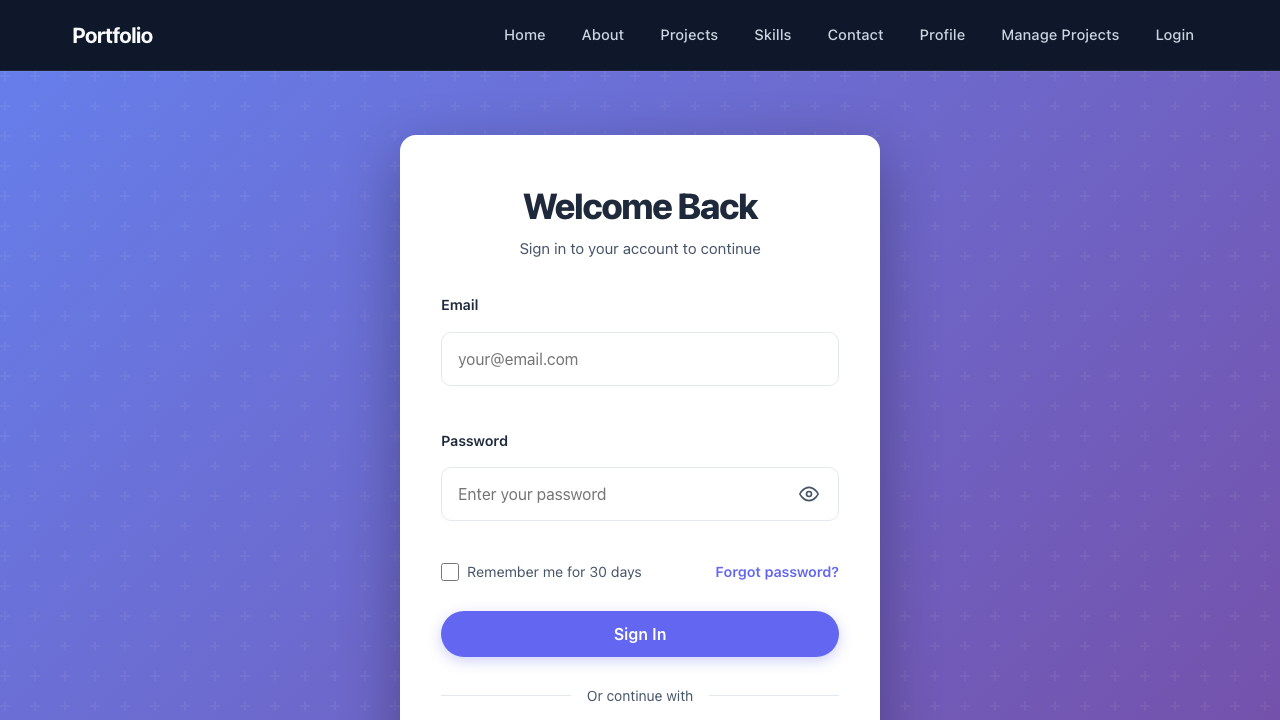
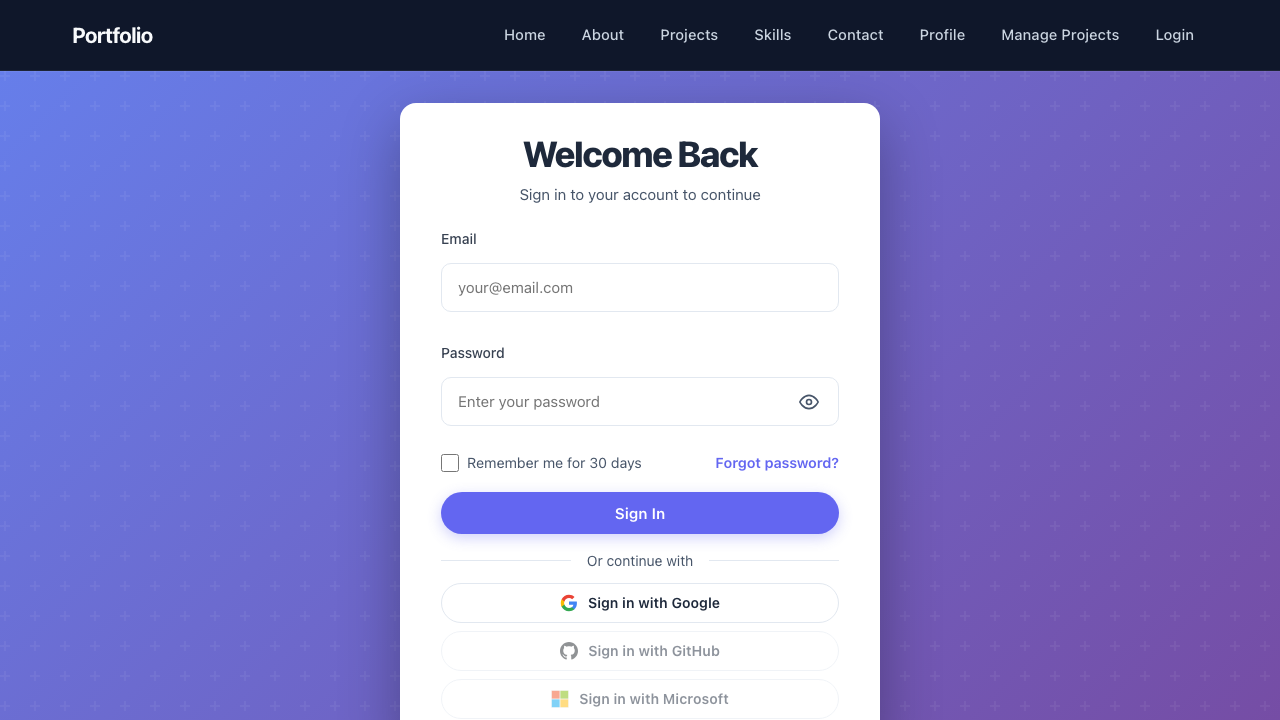
fix: visual QA review — all issues resolved

diff --git a/src/pages/Login.css b/src/pages/Login.css
@@ -1,9 +1,9 @@
 .login {
   min-height: calc(100vh - 80px);
   display: flex;
-  align-items: flex-start;
+  align-items: center;
   justify-content: center;
-  padding: 2rem;
+  padding: 2rem 2rem 3rem 2rem;
   background: linear-gradient(135deg, #667eea 0%, #764ba2 100%);
   position: relative;
   overflow-y: auto;
@@ -22,13 +22,12 @@
   max-width: 480px;
   position: relative;
   z-index: 1;
-  margin-top: 2rem;
-  margin-bottom: 2rem;
+  margin: auto;
 }
 
 .login-card {
   background-color: #ffffff;
-  padding: 3rem 2.5rem;
+  padding: 1.75rem 2.5rem;
   border-radius: var(--radius-lg);
   box-shadow: 0 20px 60px rgba(0, 0, 0, 0.3);
   border: 1px solid rgba(255, 255, 255, 0.2);
@@ -36,7 +35,7 @@
 
 .login-title {
   font-size: clamp(1.75rem, 3vw, 2.25rem);
-  margin-bottom: 0.5rem;
+  margin-bottom: 0.35rem;
   text-align: center;
   color: var(--color-text-primary);
   font-weight: 800;
@@ -46,15 +45,15 @@
 .login-subtitle {
   text-align: center;
   color: var(--color-text-secondary);
-  margin-bottom: 2rem;
+  margin-bottom: 1.25rem;
   font-size: 0.95rem;
 }
 
 .alert {
-  padding: 0.875rem 1.125rem;
+  padding: 0.75rem 1rem;
   border-radius: var(--radius-md);
-  margin-bottom: 1.5rem;
-  font-size: 0.9rem;
+  margin-bottom: 1.25rem;
+  font-size: 0.875rem;
   line-height: 1.5;
   display: flex;
   align-items: flex-start;
@@ -76,13 +75,13 @@
 .login-form {
   display: flex;
   flex-direction: column;
-  gap: 1.25rem;
+  gap: 0.875rem;
 }
 
 .form-group {
   display: flex;
   flex-direction: column;
-  gap: 0.5rem;
+  gap: 0.4rem;
 }
 
 .form-group label {
@@ -92,10 +91,10 @@
 }
 
 .form-group input {
-  padding: 0.875rem 1rem;
+  padding: 0.75rem 1rem;
   border: 1.5px solid var(--color-border);
   border-radius: var(--radius-md);
-  font-size: 1rem;
+  font-size: 0.95rem;
   color: var(--color-text-primary);
   background-color: #fff;
   transition: all var(--transition-base);
@@ -217,15 +216,15 @@
   background: var(--color-primary);
   color: #fff;
   border: none;
-  padding: 0.875rem 2rem;
-  font-size: 1rem;
+  padding: 0.75rem 2rem;
+  font-size: 0.95rem;
   font-weight: 600;
   border-radius: var(--radius-full);
   cursor: pointer;
   transition: all var(--transition-base);
   box-shadow: 0 4px 14px rgba(99, 102, 241, 0.3);
   letter-spacing: 0.01em;
-  margin-top: 0.5rem;
+  margin-top: 0.25rem;
   width: 100%;
 }
 
@@ -250,7 +249,7 @@
   display: flex;
   align-items: center;
   text-align: center;
-  margin: 1.75rem 0;
+  margin: 1rem 0 0.75rem 0;
   color: var(--color-text-secondary);
   font-size: 0.875rem;
 }
@@ -269,20 +268,20 @@
 .social-auth {
   display: flex;
   flex-direction: column;
-  gap: 0.75rem;
+  gap: 0.5rem;
 }
 
 .btn-social {
   display: flex;
   align-items: center;
   justify-content: center;
-  gap: 0.75rem;
-  padding: 0.875rem 1.5rem;
+  gap: 0.625rem;
+  padding: 0.625rem 1.25rem;
   border: 1.5px solid var(--color-border);
   border-radius: var(--radius-full);
   background-color: #fff;
   color: var(--color-text-primary);
-  font-size: 0.95rem;
+  font-size: 0.875rem;
   font-weight: 600;
   cursor: pointer;
   transition: all var(--transition-base);

diff --git a/src/sections/Contact.css b/src/sections/Contact.css
@@ -1,8 +1,8 @@
 .contact-section {
   width: 100%;
-  padding: 5rem 2rem;
+  padding: 3rem 2rem;
   background-color: var(--color-background-alt);
-  min-height: 100vh;
+  min-height: calc(100vh - 80px);
 }
 
 .contact-content {
@@ -12,7 +12,7 @@
 
 .contact-header {
   text-align: center;
-  margin-bottom: 3.5rem;
+  margin-bottom: 2rem;
 }
 
 .contact-header h2 {
@@ -35,6 +35,7 @@
   grid-template-columns: 1fr 1.5fr;
   gap: 2rem;
   align-items: start;
+  margin-bottom: 2rem;
 }
 
 /* Contact Info Section */
@@ -173,7 +174,7 @@
 }
 
 .form-group {
-  margin-bottom: 1.5rem;
+  margin-bottom: 1.25rem;
 }
 
 .form-group label {
@@ -216,7 +217,8 @@
 
 .form-group textarea {
   resize: vertical;
-  min-height: 120px;
+  min-height: 80px;
+  max-height: 120px;
 }
 
 .error-message {
